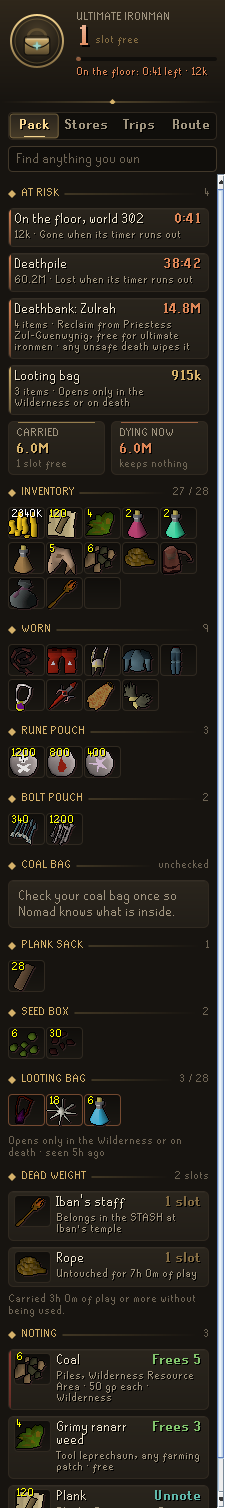
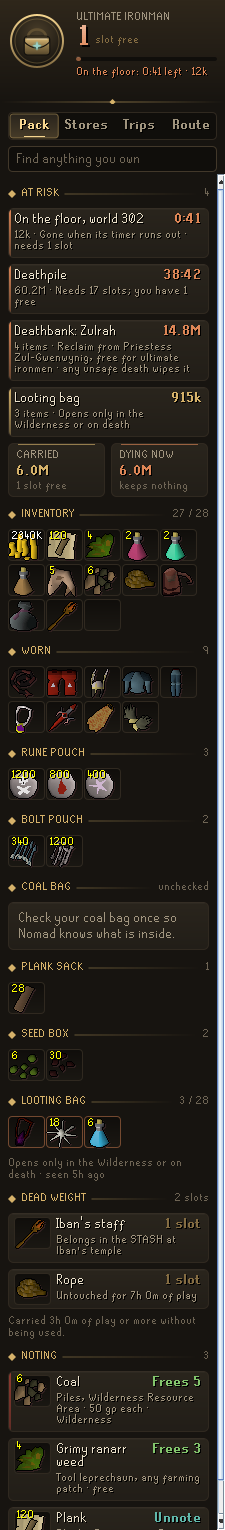
Deathpiles and dropped items say how many slots picking them up takes
When the pile needs more room than you have free, the note leads with
it: "Needs 17 slots; you have 1 free". Stacks you already carry take
no new slot.

diff --git a/src/main/java/com/codex/nomad/Views.java b/src/main/java/com/codex/nomad/Views.java
@@ -147,7 +147,7 @@ final class Views
 			p.kind = Kind.FLOOR;
 			p.key = s.key;
 			p.title = "On the floor, world " + s.world;
-			p.note = "Gone when its timer runs out";
+			p.note = roomNote("Gone when its timer runs out", room(s.items, inv, look), 28 - v.invUsed);
 			p.worth = Items.worth(s.items, look::price);
 			p.until = s.until;
 			p.count = s.items.size();
@@ -160,7 +160,7 @@ final class Views
 			p.kind = Kind.DEATHPILE;
 			p.key = s.key;
 			p.title = "Deathpile";
-			p.note = "Lost when its timer runs out";
+			p.note = roomNote("Lost when its timer runs out", room(s.items, inv, look), 28 - v.invUsed);
 			p.worth = Items.worth(s.items, look::price);
 			p.ticksLeft = s.ticksLeft;
 			p.count = s.items.size();
@@ -513,6 +513,33 @@ final class Views
 			n += look.stackable(e.getKey()) ? 1 : (int) Math.min(28, e.getValue());
 		}
 		return Math.min(28, n);
+	}
+
+	/** Inventory slots it takes to pick a pile up, counting stacks you already carry as free. */
+	static int room(Map<Integer, Long> pile, Map<Integer, Long> inv, Lookup look)
+	{
+		int n = 0;
+		for (Map.Entry<Integer, Long> e : pile.entrySet())
+		{
+			boolean stacks = look.stackable(e.getKey());
+			if (stacks && inv.getOrDefault(e.getKey(), 0L) > 0)
+			{
+				continue;
+			}
+			n += stacks ? 1 : (int) Math.min(28, e.getValue());
+		}
+		return n;
+	}
+
+	/** "Needs 21 slots; you have 3 free", or the plain note when there is room. */
+	static String roomNote(String note, int need, int free)
+	{
+		if (need <= 0)
+		{
+			return note;
+		}
+		return need > free ? "Needs " + need + (need == 1 ? " slot" : " slots") + "; you have " + free + " free"
+			: note + " · needs " + need + (need == 1 ? " slot" : " slots");
 	}
 
 	static View.ItemLine line(int id, long qty, Lookup look)

diff --git a/src/test/java/com/codex/nomad/ViewsTest.java b/src/test/java/com/codex/nomad/ViewsTest.java
@@ -1,0 +1,15 @@
+package com.codex.nomad;
+
+import static org.junit.Assert.assertEquals;
+import org.junit.Test;
+
+public class ViewsTest
+{
+	@Test
+	public void pilesSayWhetherTheyFitInYourPack()
+	{
+		assertEquals("Needs 21 slots; you have 3 free", Views.roomNote("Lost when its timer runs out", 21, 3));
+		assertEquals("Lost when its timer runs out · needs 1 slot", Views.roomNote("Lost when its timer runs out", 1, 3));
+		assertEquals("Lost when its timer runs out", Views.roomNote("Lost when its timer runs out", 0, 3));
+	}
+}
